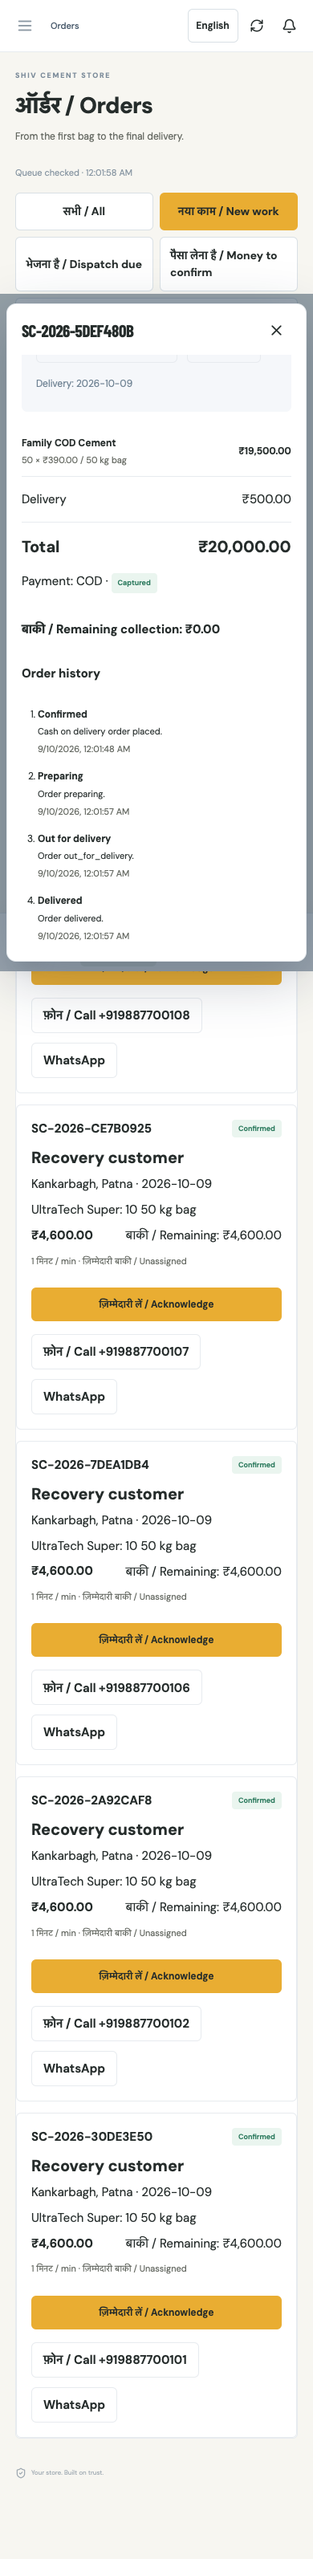
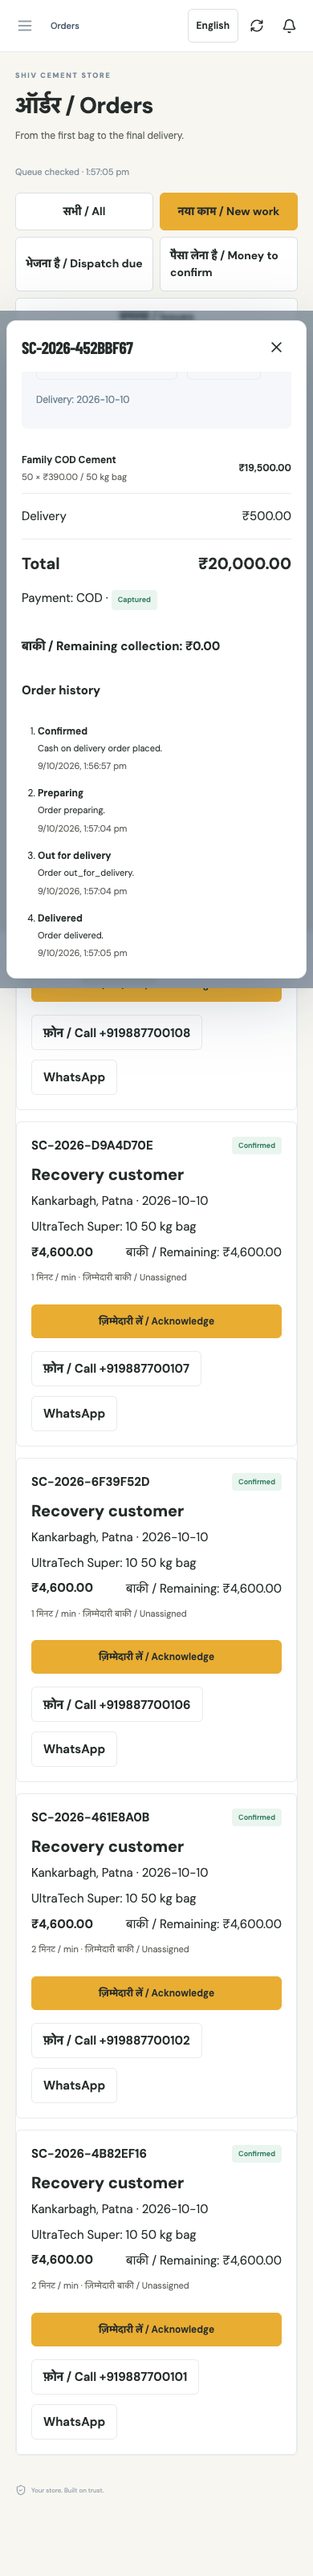
fix: preserve catalogue clicks during search debounce

diff --git a/tests/journeys.spec.ts b/tests/journeys.spec.ts
@@ -2,6 +2,23 @@ import type { Page } from '@playwright/test';
 import { test, expect } from './fixtures';
 import { productSchema, type DeliveryZone } from '@shiv/shared';
 
+test('catalogue keeps a product press intact across an unchanged search debounce', async ({
+  page,
+}) => {
+  await page.clock.install({ time: new Date('2026-01-01T00:00:00Z') });
+  await page.goto('http://localhost:8082');
+  await expect(page.getByRole('tab', { name: 'Products' })).toBeVisible();
+  await page.clock.pauseAt(new Date('2026-01-01T01:00:00Z'));
+  await page.getByRole('tab', { name: 'Products' }).click();
+  const product = page.getByRole('button', { name: 'View UltraTech Super' });
+  await expect(product).toBeVisible();
+  await product.hover();
+  await page.mouse.down();
+  await page.clock.runFor(350);
+  await page.mouse.up();
+  await expect(page.getByRole('textbox', { name: 'Quantity', exact: true })).toBeVisible();
+});
+
 async function mobileLogin(page: Page, phone: string) {
   await page.goto('http://localhost:8082');
   await page.getByRole('tab', { name: 'Account' }).click();

diff --git a/apps/mobile/src/catalog.tsx b/apps/mobile/src/catalog.tsx
@@ -469,7 +469,12 @@ export function Catalogue() {
     setCategory(route.category || '');
   }, [route.category]);
   useEffect(() => {
-    const timer = setTimeout(() => setSearch({ query: query.trim(), brand: brand.trim() }), 300);
+    const timer = setTimeout(() => {
+      const next = { query: query.trim(), brand: brand.trim() };
+      setSearch((previous) =>
+        previous.query === next.query && previous.brand === next.brand ? previous : next,
+      );
+    }, 300);
     return () => clearTimeout(timer);
   }, [query, brand]);
   useEffect(() => {

diff --git a/docs/REVIEW_HANDOFF.md b/docs/REVIEW_HANDOFF.md
@@ -6,11 +6,11 @@ This is a source-review release on `codex/pilot-readiness`, not approval for pub
 
 Repository: <https://github.com/amankeshri7542/cement-order-app>. Existing draft: [PR #1](https://github.com/amankeshri7542/cement-order-app/pull/1). Starting HEAD was `8f0fc53568059a7cc10d844766f769b8f637b7e6`; a fresh fetch showed zero ahead/behind against the feature branch. No main merge, reset or rewritten history is part of this handoff. Use `git rev-parse HEAD` after checking out the review commit to identify the exact revision; CI must be checked for that SHA, not merely for the branch name.
 
-Application, migration, test and CI changes are committed as `5db35e3db9a3ac1763a1c5f0ae2bf197a5050a8f`; the documentation handoff follows without application changes.
+The main application, migration, test and CI changes are committed as `5db35e3db9a3ac1763a1c5f0ae2bf197a5050a8f`. The release follow-up also corrects the catalogue interaction race described below.
 
 The previously uncommitted work adds the simplified bilingual owner desk, durable owner work/acknowledgment, COD delivery exceptions and physical returns, dated cash movements, accepted-quote conversion, customer cart/draft/uncertain-submit recovery, and QA corrections. Security changes add transactional demand caps, audited exceptions, persistent resource budgets, validated photos, open-session event checks, frontend CSP and operational recovery tooling. Three additive migrations introduce the workflow/financial records, quote/order pack snapshots, and demand exceptions/validated asset records. Existing transactional stock, server prices, record ownership, signed payment events and human price approval remain in place.
 
-This release review changes documentation and fixes clean-checkout CI setup: the bootstrap command explicitly loads `.env.test`, but the workflow previously created only `.env`. Its missing-file failure was reproduced (exit 9); CI now creates `.env.test` from its disposable test URL. No application behavior was changed during the release review.
+This release review fixes clean-checkout CI setup: the bootstrap command explicitly loads `.env.test`, but the workflow previously created only `.env`. Its missing-file failure was reproduced (exit 9); CI now creates `.env.test` from its disposable test URL. CI then exposed a catalogue race: an unchanged search debounce cleared/remounted the product card during a click. Preserving equal normalized search state removes that unnecessary reload. A clock-controlled real pointer regression fails before the fix and passes after it; existing live-price refresh and explicit checkout review remain tested.
 
 ## Status vocabulary
 
@@ -63,7 +63,7 @@ PostgreSQL is authoritative. Clients never set authoritative prices, roles or pa
 
 ## Verification and source identity
 
-Before this release review, all 162 entries in `.local/security-hardening/source-after.json` matched the working tree. The earlier browser-run manifest differed only in four Markdown reports and three regenerated synthetic screenshots; application, schema, test, lockfile and configuration bytes matched. Thus the complete **Chrome 42/42 and WebKit 42/42** runs on 8 October 2026 remain valid local evidence for the application source in this release. Both had zero retries/skips/flaky failures, uncaught page errors or View text-node warnings. This review did not change application source; the only verification-config change prepares CI's ignored `.env.test`.
+Before this release review, all 162 entries in `.local/security-hardening/source-after.json` matched the working tree. The earlier browser-run manifest differed only in four Markdown reports and three regenerated synthetic screenshots; application, schema, test, lockfile and configuration bytes matched. The **Chrome 42/42 and WebKit 42/42** runs on 8 October 2026 are historical source-matched evidence. [CI run 37901781347](https://github.com/amankeshri7542/cement-order-app/actions/runs/37901781347) at `88285c2646e2ebb440c3998adaed11c59e4c5874` nevertheless found the intermittent catalogue race (Chrome 41 passed/1 failed; subsequent steps skipped). That failure was investigated and reproduced, not retried away. Fresh post-fix results are recorded in the release completion below.
 
 Fresh release checks are stored under ignored `.local/release-review/`. Typechecks, lint, unit/provider **61/61**, API/PostgreSQL **67/67**, workflows **20/20**, migration bootstrap and disposable restore passed. The initial API/workflow attempts stopped at setup because PostgreSQL was down; no test assertion ran in those attempts. Starting the existing cluster resolved that environment failure; both complete reruns passed. Build and final publication evidence are recorded in the release completion below. Raw test reports, traces, dumps, authentication state and certificates are deliberately not published. Screenshots under `docs/screenshots` show synthetic local practice/test fixtures, not exported customer records.
 
@@ -134,7 +134,7 @@ To reproduce this alternate-port review, keep the existing local database runnin
 # Terminal 1
 CORS_ORIGINS=http://localhost:3000,http://localhost:3002,http://localhost:8081 npm run dev:api
 # Terminal 2
-npm exec -w @shiv/admin -- next dev --port 3002
+npm exec -w @shiv/admin -- next dev --port 3002 --hostname 127.0.0.1
 # Terminal 3
 npm run dev:web
 ```
@@ -154,6 +154,10 @@ The default launcher/status commands still assume port 3000. After manually star
 
 ## Release completion
 
+The post-CI catalogue correction passed the targeted Chrome regression plus unchanged live-price journey (**2/2**). Complete final-source **WebKit 43/43** (9 October, 08:20 UTC) and **Chrome 43/43** (08:24 UTC) ran sequentially on loopback `shiv_cement_test`, with zero retries, skips, unexpected/flaky results, uncaught page errors or View text-node warnings. The earlier post-fix Chrome 43/43 run was repeated after test-only formatting so the final evidence matches the checked-in bytes. Evidence: `.local/release-review/{chrome-final,webkit-followup}.json`, corresponding results/HTML directories and `final-browser-summary.json`. The manifest changes only the catalogue and its journey test; backend/security source, migrations and dependencies retain the source matched by the 61/67/20 supporting results above. Final lint, typechecks and the repository pattern scan passed again. Three existing synthetic workflow screenshots were regenerated by the complete suites.
+
 Local production builds passed for shared contracts, API, Next.js and Expo Android/iOS/web exports. Expo compatibility passed. The maintained Secretlint 13.0.7 final scan of 148 staged text files outside the repository ignore rules reported only five reviewed database-string fixtures/placeholders (staging example, loopback launcher, two CI values, `.env.example`); no unreviewed credential was found. The limited repository scan passed. Staged `git diff --check` reports one existing blank line at EOF in `20261007160000_quote_pack_consent/migration.sql`; it is retained because that migration has already been applied locally and changing its bytes would invalidate its checksum. No other whitespace defect was reported. Three existing Git commits were already covered by the prior local-history scan and the fresh fetch added no divergent feature commits.
 
 Publication uses the existing draft PR above. Its check for the final pushed SHA is the authoritative CI result; local evidence alone does not imply that CI, container verification or public staging is cleared. Raw local evidence remains ignored.
+
+The post-fix ordered production rebuild also passed (`.local/release-review/build-followup.log`). Managed local apps were safely restarted and Chrome verified the owner store title/staff sign-in at 3002, real customer catalogue/detail at 8081 and API health at 4000 (`smoke-followup.log`). Development counts remain 6 users / 8 products / 0 orders / 0 quotes, and payments remain disabled. No environment file changed. The follow-up Secretlint scan found no issues in the new text changes; publication still excludes environment files, raw evidence, credentials and storage data. The earlier failed CI run remains linked above so reviewers can distinguish the fix from a simple rerun; inspect the new PR check for the final pushed SHA.

diff --git a/docs/BROWSER_QA_REPORT.md b/docs/BROWSER_QA_REPORT.md
@@ -1,18 +1,34 @@
 # Browser QA fixes — 8 October 2026
 
-## Security follow-up — 8–9 October 2026 (latest)
+## Release follow-up — 9 October 2026 (latest)
+
+[CI run 37901781347](https://github.com/amankeshri7542/cement-order-app/actions/runs/37901781347), for `88285c2646e2ebb440c3998adaed11c59e4c5874`, passed 41 Chrome cases and failed the live-price journey: clicking **View UltraTech Super** left the catalogue open, so **Quantity** never appeared. WebKit and later CI steps were skipped. Earlier 42/42 runs did not exclude this intermittent race.
+
+The trace showed a catalogue request starting during the pointer action, about 300ms after the screen opened. `Catalogue` scheduled a new search object even when the normalized search was unchanged; this triggered a foreground reload that removed and remounted the pressed card. A new regression pauses the browser clock, opens Products, uses normal hover/actionability to position the pointer, holds the press across 350ms, releases and expects Quantity. It failed on the old code and passed after preserving the previous search object when its normalized query and brand are equal. The existing live-price/renewed-checkout-consent journey also passed unchanged. No force click, retry, skipped assertion or protection bypass was added.
+
+Before/after evidence is retained privately under `.local/release-review/catalogue-before-corrected.log`, `catalogue-before-corrected-results/`, and `catalogue-after-corrected.log`. An initial test-harness attempt did not scroll the card into view; it is retained but is not the controlled before/after evidence. Complete final-source engine results are recorded in [REVIEW_HANDOFF.md](REVIEW_HANDOFF.md). Firefox was rechecked again and still exits before navigation with **Could not find profile folder** (`.local/release-review/firefox-followup.log`). The physical-device, real-zoom and extreme-right Safari gaps remain.
+
+Exact regression command:
+
+```sh
+npm run test:e2e -- --config=playwright.qa.config.ts --project=chrome --grep 'unchanged search debounce|live price updates'
+```
+
+Manual verification on an isolated practice store: open the customer app, choose **Products**, immediately press and briefly hold a visible product card, then release. Its details and **Quantity** must appear. Return, search for a real product name, wait for results, and open it; repeat with leading/trailing spaces to confirm normalization. In a second owner browser, change a synthetic product's selling price through the reviewed flow. Confirm the customer catalogue refreshes and a previously accepted checkout total requires renewed review/consent. Do not place practice orders in operational data. Use owner `http://localhost:3002` and customer `http://localhost:8081` for this machine's supervised review; the normal harness uses disposable ports 3001/8082/4010.
+
+## Security follow-up — 8–9 October 2026 (historical)
 
 The security hardening work preserved QA-01 session recovery, QA-02 enlarged-text reflow, QA-03 ordinary WebKit scrim/draft protection and QA-04 View warning fixes. Fresh complete final suites passed **Chrome 42/42 and WebKit 42/42**, sequentially against the disposable test database, with no retries/skips. Recorded pages have zero uncaught errors and zero View text-node warnings. The two added checks verify actual frontend response policy and blocked HTML-injected owner scripts.
 
 Evidence: `.local/security-hardening/{chrome,webkit}-final.json`, corresponding results/HTML directories and `*-final-observations.json`. The first expanded run exposed CSP/Expo integration issues; they were fixed at the actual response layer and existing Rate Studio assertions retained. Production CSP was separately tested in both engines on both frontends over a self-signed local TLS fixture; provider responses were simulated.
 
-Firefox launch was rechecked and remains blocked before navigation by **Could not find profile folder** (`.local/security-hardening/firefox-launch.log`). Actual phones, real zoom/accessibility and extreme-right Safari behavior remain unverified; no force-click or weakened protection was used. The earlier 40/40 follow-up remains valid historical evidence of the QA fixes, but the 42/42 runs are the current regression result.
+Firefox launch was rechecked and remains blocked before navigation by **Could not find profile folder** (`.local/security-hardening/firefox-launch.log`). Actual phones, real zoom/accessibility and extreme-right Safari behavior remain unverified; no force-click or weakened protection was used. The earlier 40/40 and 42/42 follow-ups remain historical evidence; the release follow-up above supersedes them.
 
 See [SECURITY_HARDENING_REPORT.md](SECURITY_HARDENING_REPORT.md) for the verified security fixes, failed-before evidence, exact commands, residual risks and exact manual/staging steps. Local apps were restarted with development data preserved and online payments disabled.
 
 ## Current disposition
 
-**Ready for supervised local family review. Latest security-follow-up Chrome and WebKit suites each pass 42/42; the Firefox and physical-device limits below remain.** No deployment, real SMS/payment transaction, or development-database reset was performed. Online payments remain disabled in the development store. The historical report below describes the pre-fix state and is superseded by this follow-up.
+**Ready for supervised local family review. Release-follow-up Chrome and WebKit suites each pass 43/43; the Firefox and physical-device limits below remain.** No deployment, real SMS/payment transaction, or development-database reset was performed. Online payments remain disabled in the development store. The historical report below describes the pre-fix state and is superseded by this follow-up.
 
 Changes preserve backend authentication, explicit discard confirmation, and both human price-review and publication confirmation. Existing unrelated working-tree changes were retained. Commands in `README.md`, `docs/LOCAL_TESTING.md`, and the historical command references in `docs/LOCAL_PROGRESS.md` now match the actual workspace scripts. The local launcher also prints the correct database-stop command.
 

diff --git a/docs/SECURITY_HARDENING_REPORT.md b/docs/SECURITY_HARDENING_REPORT.md
@@ -1,5 +1,7 @@
 # Security hardening — local implementation
 
+Release follow-up, 9 October: the implementation below is retained. A later exact-source CI run exposed an intermittent customer catalogue click race; the release review reproduced it and preserves normalized search state to avoid removing a pressed card. See [BROWSER_QA_REPORT.md](BROWSER_QA_REPORT.md) for before/after evidence and [REVIEW_HANDOFF.md](REVIEW_HANDOFF.md) for final-source verification, publication links and residual gates. The earlier 42/42 browser counts below are historical, not a claim about every later revision. The source-review push is now authorized; deployment and online payments remain unauthorized.
+
 Scope: `codex/pilot-readiness`, existing dirty working tree preserved. No deployment, real messages, paid resources, or online payments authorized. The latest browser QA follow-up (40/40 Chrome and WebKit) supersedes the historical QA failures.
 
 ## Plan and attack surface
